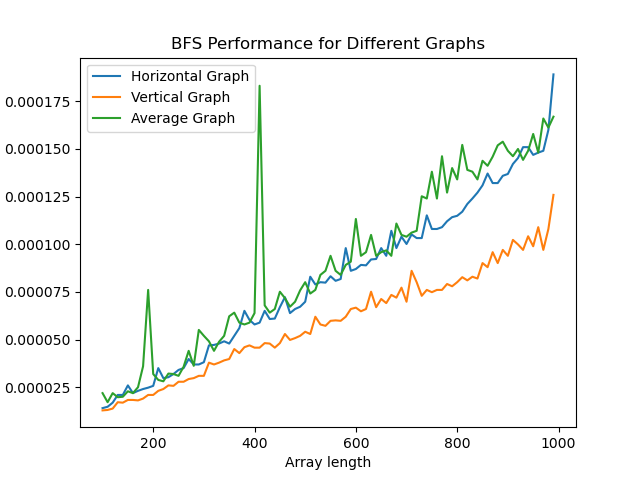
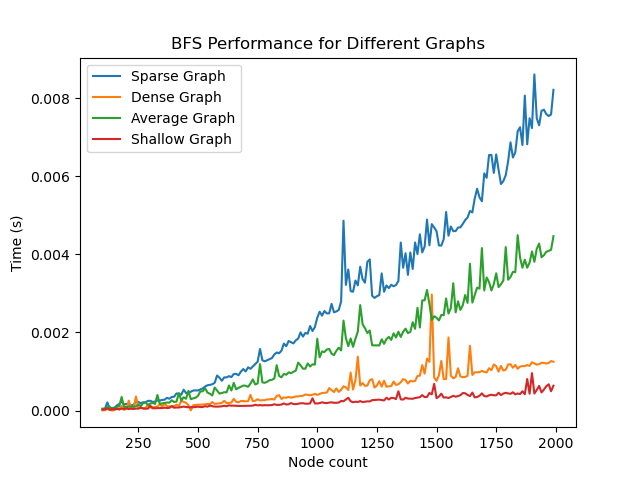
done

diff --git a/Graphs/main.py b/Graphs/main.py
@@ -1,8 +1,9 @@
 import time
 import matplotlib.pyplot as plt
 from Algorithms import BFS, DFS
-from generate_graphs import average_graph, horizontal_graph, vertical_graph
+from generate_graphs import *
 import os
+import networkx as nx
 
 def measure_time(algorithm, graph, n):
     start_time = time.time()
@@ -12,44 +13,48 @@ def measure_time(algorithm, graph, n):
     return end_time - start_time
 
 
-def measure_sort(algorithm):
+def measure_performance(algorithm):
     n_values = []
-    time_values_horizontal = []
-    time_values_vertical = []
-    time_values_average = []
-
-    test_vals = range(100, 1000, 10)
-    
-    print(f"{algorithm.__name__} Performance:")
-    for test_num in test_vals:
+    time_sparse = []
+    time_dense = []
+    time_average = []
+    time_shallow = []
+    test_node_values = range(100, 2000, 10)
+    print(f"Measuring performance for {algorithm.__name__}")
+    for test_num in test_node_values:
+        print(f"Measuring performance for {test_num} nodes")
+        n_values.append(test_num)
         # Measure time for medium graph
-        avg_graph = average_graph(test_num)
+        avg_graph = generate_graph(test_num,p=0.05)
         start_node = next(iter(avg_graph))
         exec_time_med = measure_time(algorithm, avg_graph, start_node)
-        print("For graph with vertexes", test_num, "time execution: ", exec_time_med)
-        time_values_average.append(exec_time_med)
+        time_average.append(exec_time_med)
 
-    test_vals = range(100, 1000, 10)
-    
-    for test_num in test_vals:
-        n_values.append(test_num)
         # Measure time for vertical graph
-        vert_graph = vertical_graph(test_num)
-        start_node = next(iter(vert_graph))
-        exec_time_vertical = measure_time(algorithm, vert_graph, start_node)
-        time_values_vertical.append(exec_time_vertical)
+        sparse_graph = generate_graph(test_num,p=0.01)
+        start_node = next(iter(sparse_graph))
+        exec_time_vertical = measure_time(algorithm, sparse_graph, start_node)
+        time_dense.append(exec_time_vertical)
 
         # Measure time for horizontal graph
-        hor_graph = horizontal_graph(test_num)
-        start_node = next(iter(hor_graph))
-        exec_time_horizontal = measure_time(algorithm, hor_graph, start_node)
-        time_values_horizontal.append(exec_time_horizontal)
+        dense_graph = generate_graph(test_num,p=0.1)
+        start_node = next(iter(dense_graph))
+        exec_time_horizontal = measure_time(algorithm, dense_graph, start_node)
+        time_sparse.append(exec_time_horizontal)
 
-    plt.plot(n_values, time_values_horizontal, label='Horizontal Graph')
-    plt.plot(n_values, time_values_vertical, label='Vertical Graph')
-    plt.plot(n_values, time_values_average, label='Average Graph')
+        # Measure time for shallow graph
+        shall_graph = shallow_graph(test_num)
+        start_node = next(iter(shall_graph))
+        exec_time_shallow = measure_time(algorithm, shall_graph, start_node)
+        time_shallow.append(exec_time_shallow)
+        
 
-    plt.xlabel("Array length")
+    plt.plot(n_values, time_sparse, label='Sparse Graph')
+    plt.plot(n_values, time_dense, label='Dense Graph')
+    plt.plot(n_values, time_average, label='Average Graph')
+    plt.plot(n_values, time_shallow, label='Shallow Graph')
+
+    plt.xlabel("Node count")
     plt.ylabel("Time (s)")
     plt.title(f"{algorithm.__name__} Performance for Different Graphs")
     plt.legend()
@@ -57,7 +62,19 @@ def measure_sort(algorithm):
     plt.savefig(path)
     plt.close()
 
+def draw_graph(graph):
+    G = nx.Graph()
+    for node, edges in graph.items():
+        for edge in edges:
+            G.add_edge(node, edge)
+    pos = nx.spring_layout(G, k=0.15, iterations=20)
+    nx.draw(G, pos, with_labels=True, node_size=700, font_size=15)
+    plt.show()
+
 algorithms = [BFS, DFS]
 for algorithm in algorithms:
-    measure_sort(algorithm)
-    
+    measure_performance(algorithm)
+
+# graph = shallow_graph(50)
+
+# draw_graph(graph)

diff --git a/Graphs/generate_graphs.py b/Graphs/generate_graphs.py
@@ -9,41 +9,39 @@ def generate_vertex(vertices):
             if vertex not in vertices:
                 return vertex
 
-def vertical_graph(n):
+
+def generate_graph(n, p=0.1):
+    
+
     graph = {}
     vertices = []
-    second_row = []
-    start_node = generate_vertex(vertices)
-    vertices.append(start_node)
 
-    for i in range(4):
-        neighbor = generate_vertex(vertices)
-        vertices.append(neighbor)
-        second_row.append(neighbor)
+    for _ in range(n):
+        vertex = generate_vertex(vertices)
+        vertices.append(vertex)
+        graph[vertex] = []
 
-    graph[start_node] = second_row
-    for node in second_row:
-        for j in range(int((n-5)/4)):
-            l = []
-            secondary_neighbor = generate_vertex(vertices)
-            vertices.append(secondary_neighbor)
-            l.append(secondary_neighbor)
-            graph[node] = l
-            node = secondary_neighbor
-        graph[node] = []
+    for vertex in graph:
+        for other_vertex in graph:
+            if vertex != other_vertex and random.random() < p:
+                graph[vertex].append(other_vertex)
+
     return graph
 
 
-def horizontal_graph(n):
+def shallow_graph(n):
+    """
+    Generates a shallow graph with 'n' nodes.
+
+    Args:
+        n (int): The number of nodes in the graph.
+
+    Returns:
+        dict: A dictionary representing the generated graph, where the keys are the nodes and the values are lists of neighboring nodes.
+    """
     graph = {}
     vertexes = []
     second_row = []
-    def generate_vertex(vertexes):
-        while True:
-            vertex = ''.join(random.choices(string.ascii_lowercase, k=5))
-            if vertex not in vertexes:
-                return vertex
-
     start_node = generate_vertex(vertexes)
     vertexes.append(start_node)
 
@@ -57,39 +55,6 @@ def horizontal_graph(n):
     for node in second_row:
         l = []
         for j in range(int((n-5)/4)):
-            secondary_neighbor = generate_vertex(vertexes)
-            vertexes.append(secondary_neighbor)
-            l.append(secondary_neighbor)
-        graph[node] = l
-        for nod in l:
-            graph[nod] = []
-
-    return graph
-
-def average_graph(n):
-    graph = {}
-    vertexes = []
-    second_row = []
-    x = int(math.sqrt(n))
-    def generate_vertex(vertexes):
-        while True:
-            vertex = ''.join(random.choices(string.ascii_lowercase, k=5))
-            if vertex not in vertexes:
-                return vertex
-
-    start_node = generate_vertex(vertexes)
-    vertexes.append(start_node)
-
-    for i in range(x):
-        neighbor = generate_vertex(vertexes)
-        vertexes.append(neighbor)
-        second_row.append(neighbor)
-
-    graph[start_node] = second_row
-
-    for node in second_row:
-        l = []
-        for j in range(x):
             secondary_neighbor = generate_vertex(vertexes)
             vertexes.append(secondary_neighbor)
             l.append(secondary_neighbor)
